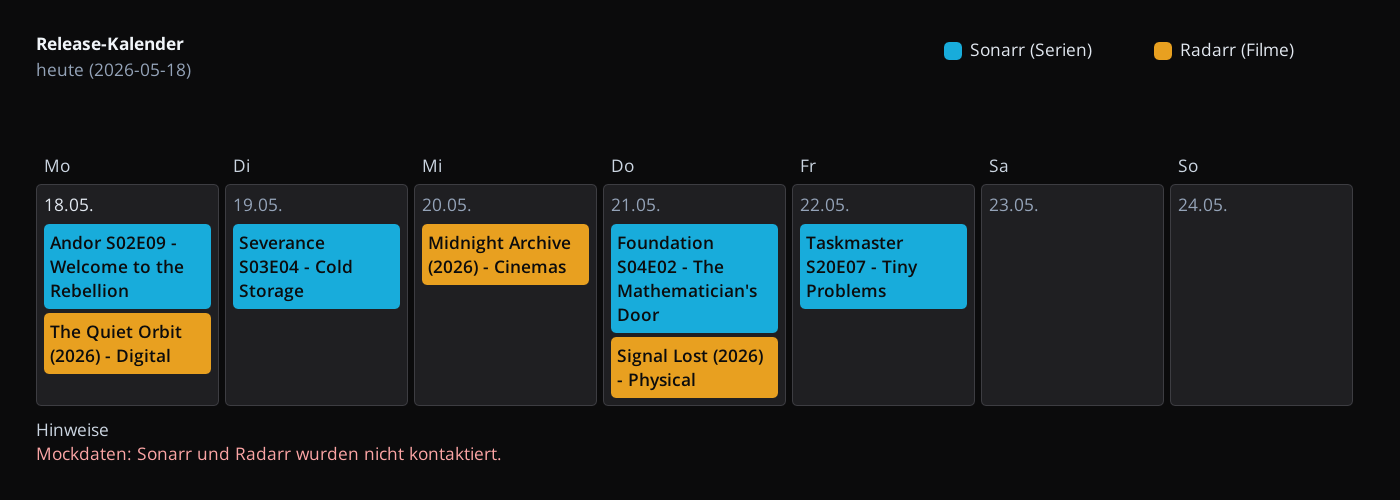
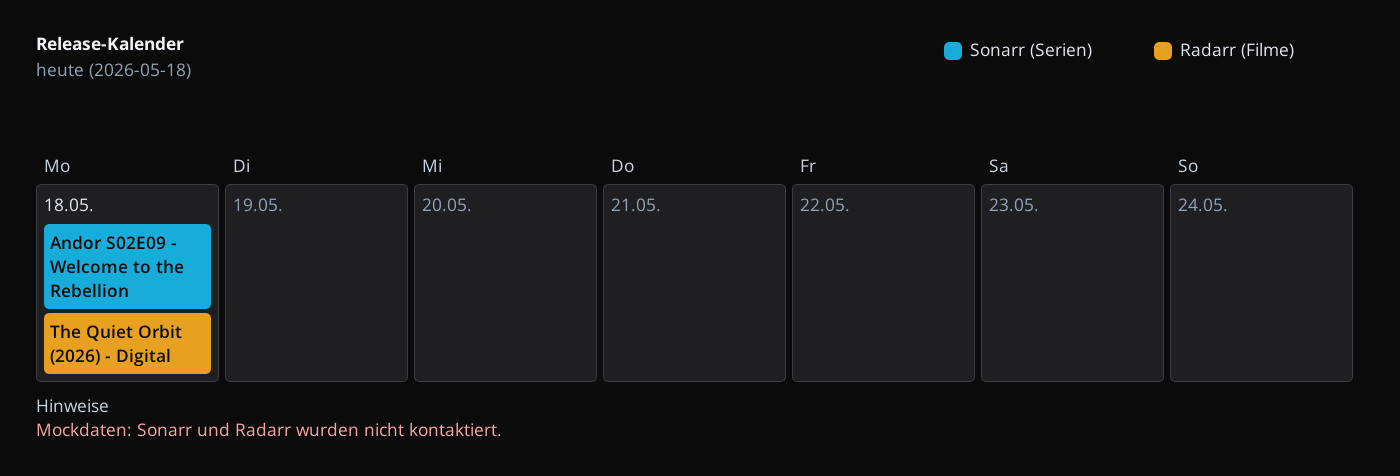
Filter release calendar items to requested span

diff --git a/internal/discord/releases_calendar.go b/internal/discord/releases_calendar.go
@@ -306,7 +306,11 @@ func renderReleaseCalendarPNG(start, end time.Time, label string, items []releas
 	rows := (days + 6) / 7
 	byDay := map[int][]releaseCalendarItem{}
 	for _, item := range items {
-		index := int(dayStart(item.Date).Sub(gridStart).Hours() / 24)
+		itemDay := dayStart(item.Date)
+		if itemDay.Before(start) || !itemDay.Before(end) {
+			continue
+		}
+		index := int(itemDay.Sub(gridStart).Hours() / 24)
 		if index < 0 || index >= days {
 			continue
 		}